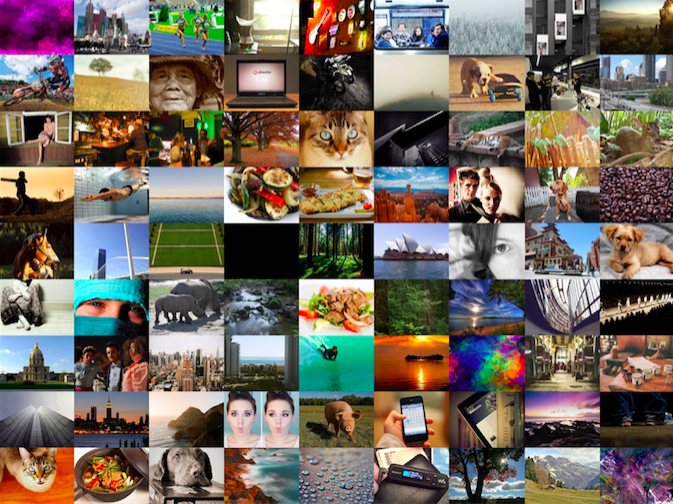
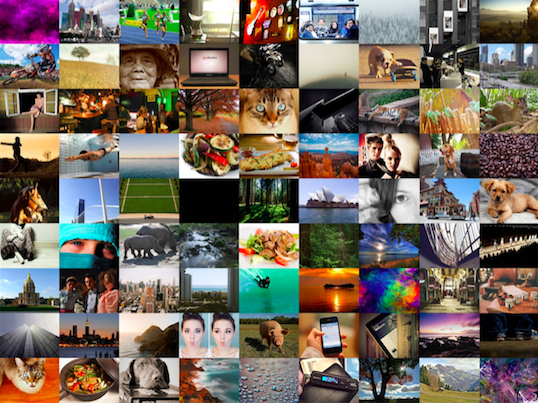
new update with more images

diff --git a/_posts/2018-1-8-User-Research-Project.md b/_posts/2018-1-8-User-Research-Project.md
@@ -4,7 +4,7 @@ title: The prospective grad student experience
 thumbnail: collage.png
 ---
 
-I designed and carried out a user research study for Bentley University
+I designed and carried out a qualitative user research study for Bentley University
 that sought to improve the experience of prospective students by
 examining analogous experiences.
 

diff --git a/_posts/2018-1-22-Facebook-Strategy.md b/_posts/2018-1-22-Facebook-Strategy.md
@@ -1,6 +1,7 @@
 ---
 layout: post
 title: UX strategy for Facebook
+thumbnail: 725-ux-startegy.png
 ---
 
 As part of a course on UX leadership, I developed with two other team members a UX strategy to help lead Facebook into the future of social media and out of the current controversy around the company and social media in general. 

diff --git a/_posts/2018-2-1-Usability-Testing.md b/_posts/2018-2-1-Usability-Testing.md
@@ -1,6 +1,7 @@
 ---
 layout: post
 title: Usability evaluation of data.census.gov
+thumbnail: 750-census.png
 ---
 
 I worked in a team of 5 and collaborated with the U.S. Census to perform an extensive usability evaluation of their new user-centered data platform, data.census.gov.

diff --git a/_posts/2018-1-23-Fake-News.md b/_posts/2018-1-23-Fake-News.md
@@ -1,6 +1,7 @@
 ---
 layout: post
 title: Fake News
+thumbnail: 795-fake-news.png
 ---
 
 As part of a research methods course, I worked with an other graduate
